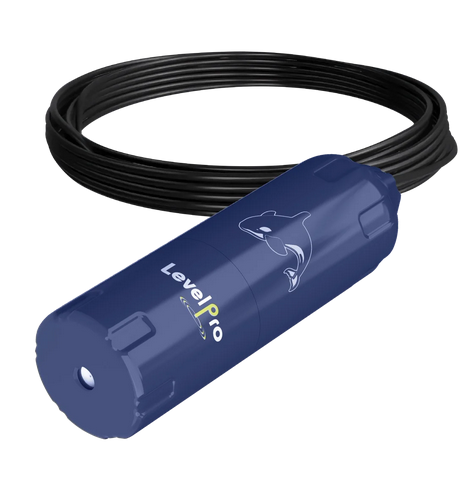
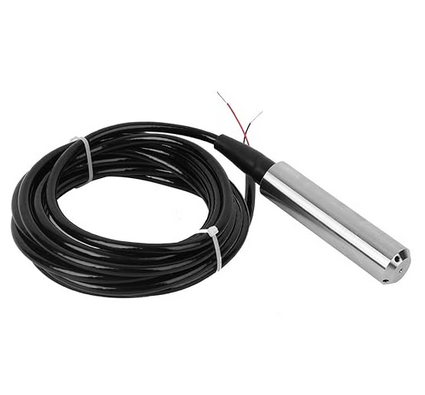
Initial Readme

diff --git a/README.md b/README.md
@@ -1,29 +1,29 @@
-# Anemometer
-Wireless WIFI Anemometer using ESP32
+# PiezoelectricSensor
+Piezoelectric Submersible Level Sensor using ESP32
 
-[![Hits](https://hits.seeyoufarm.com/api/count/incr/badge.svg?url=https%3A%2F%2Fgithub.com%2FClassicDIY%2FAnemometer&count_bg=%2379C83D&title_bg=%23555555&icon=&icon_color=%23E7E7E7&title=hits&edge_flat=false)](https://hits.seeyoufarm.com)
+[![Hits](https://hits.seeyoufarm.com/api/count/incr/badge.svg?url=https%3A%2F%2Fgithub.com%2FClassicDIY%2FFloatLevel&count_bg=%2379C83D&title_bg=%23555555&icon=&icon_color=%23E7E7E7&title=hits&edge_flat=false)](https://hits.seeyoufarm.com)
 
-[![GitHub stars](https://img.shields.io/github/stars/ClassicDIY/Anemometer?style=for-the-badge)](https://github.com/ClassicDIY/Anemometer/stargazers)
+[![GitHub stars](https://img.shields.io/github/stars/ClassicDIY/FloatLevel?style=for-the-badge)](https://github.com/ClassicDIY/FloatLevel/stargazers)
 
 <a href="https://www.buymeacoffee.com/r4K2HIB" target="_blank"><img src="https://cdn.buymeacoffee.com/buttons/v2/default-yellow.png" alt="Buy Me A Coffee" style="height: 60px !important;width: 217px !important;" ></a>
 
-This project is based on the ESP32, it works with the Adafruit Anemometer https://www.adafruit.com/?q=anemometer&
+This project is based on the ESP32, it works with a Submersible Level Sensor 4-20ma Pressure Sensors.
 
 |<a href="https://www.aliexpress.com/item/32826540261.html?src=google&src=google&albch=shopping&acnt=494-037-6276&isdl=y&slnk=&plac=&mtctp=&albbt=Google_7_shopping&aff_platform=google&aff_short_key=UneMJZVf&&albagn=888888&albcp=7386552844&albag=80241711349&trgt=743612850714&crea=en32826540261&netw=u&device=c&albpg=743612850714&albpd=en32826540261&gclid=Cj0KCQjw-r71BRDuARIsAB7i_QMqV6A_E4zdDcSiXs2j3qIUm4cIgdCFfkDs1Egmak4QgCXrvfcQXAkaAu2WEALw_wcB&gclsrc=aw.ds"> ESP32 Dev Module</a>|<img src="./Pictures/ESP32.png" width="120"/>|
 |---|---|
 |<a href="https://www.adafruit.com/?q=anemometer&"> Adafruit Anemometer </a>|<img src="https://www.adafruit.com/images/1200x900/1733-00.jpg" width="120"/>|
 
 <p align="center">
-  <img src="./Pictures/AnemometerWebPage.PNG" width="350"/>
+  <img src="./Pictures/Sensor.png" width="350"/>
 </p>
 
 ## Wiring
 
 Device Pin | ESP32 |
 --- | --- |
-Anemometer blue (signal) | A0 |
-Anemometer brown (+5) | Vin |
-Anemometer black (Gnd) | Gnd |
+FloatLevel red (signal)  | A0 |
+Use 160 Ohm resister from A0 to GND
+FloatLevel black (Gnd) | 24VDC | Gnd |
 
 <p align="center">
   <img src="./Pictures/ESP32%20Pinout.PNG" width="800"/>
@@ -34,6 +34,6 @@ Used the following development tools;
 <ul>
   <li>Visual Studio Code with the PlatformIO extension.</li>
   <li>***** Don't forget to upload the index.htm file for the initial setup of the ESP32, Run 'Upload File System Image' platformio command</li>
-  <li>Setup WIFI configuration by logging onto the "Anemometer" Access Point, use "Anemometer" as the AP password. Browse 192.168.4.1 and go to Configuration Page to provide your WIFI credentials.
+  <li>Setup WIFI configuration by logging onto the "FloatLevel" Access Point, use "FloatLevel" as the AP password. Browse 192.168.4.1 and go to Configuration Page to provide your WIFI credentials.
 </ul>
 
